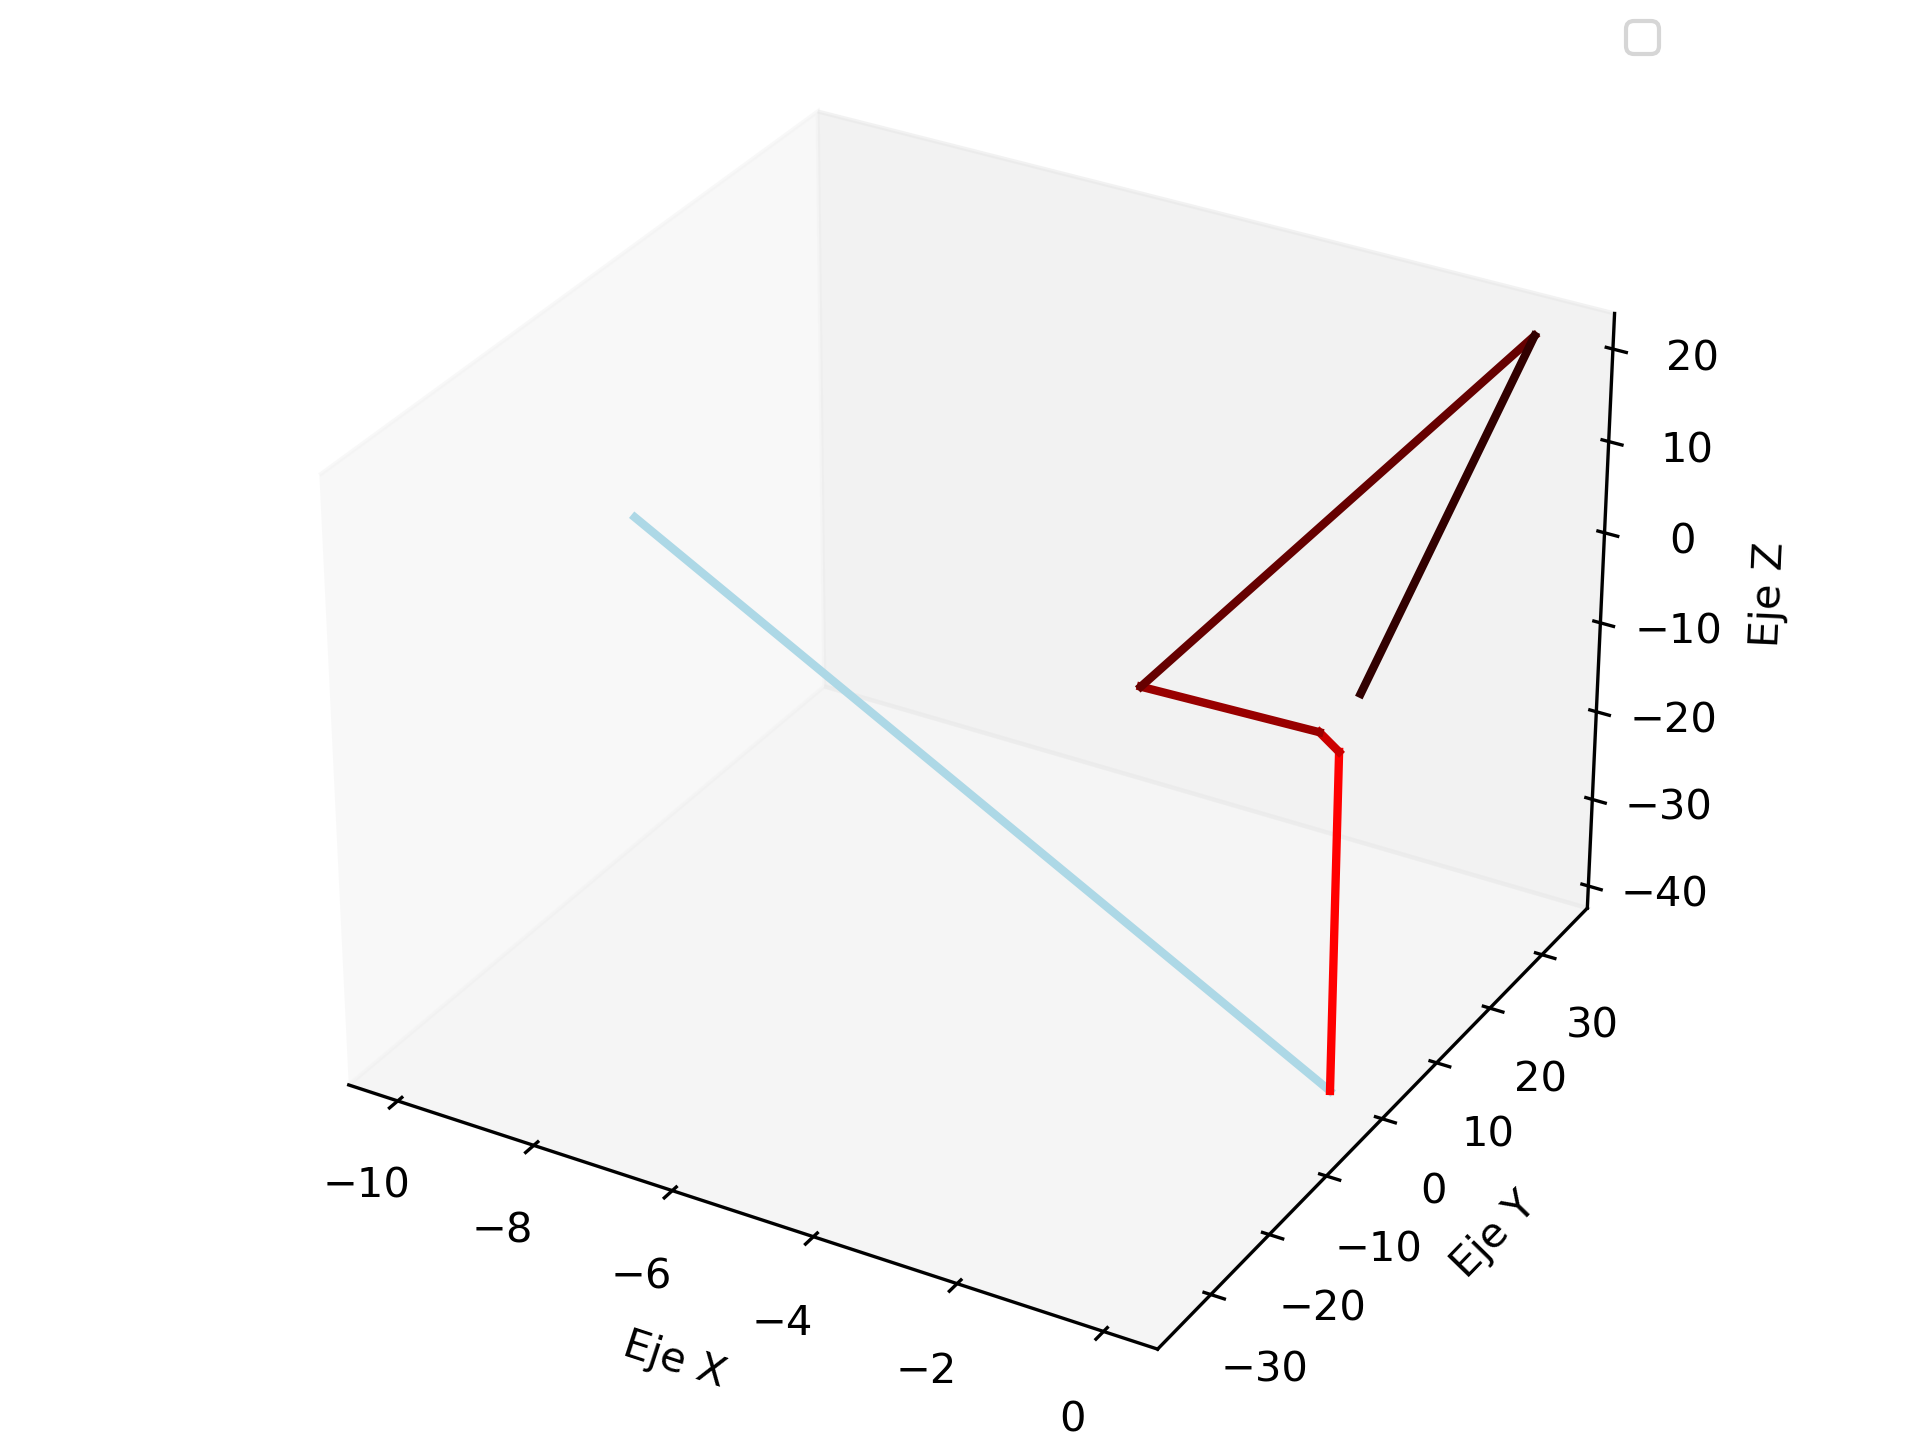
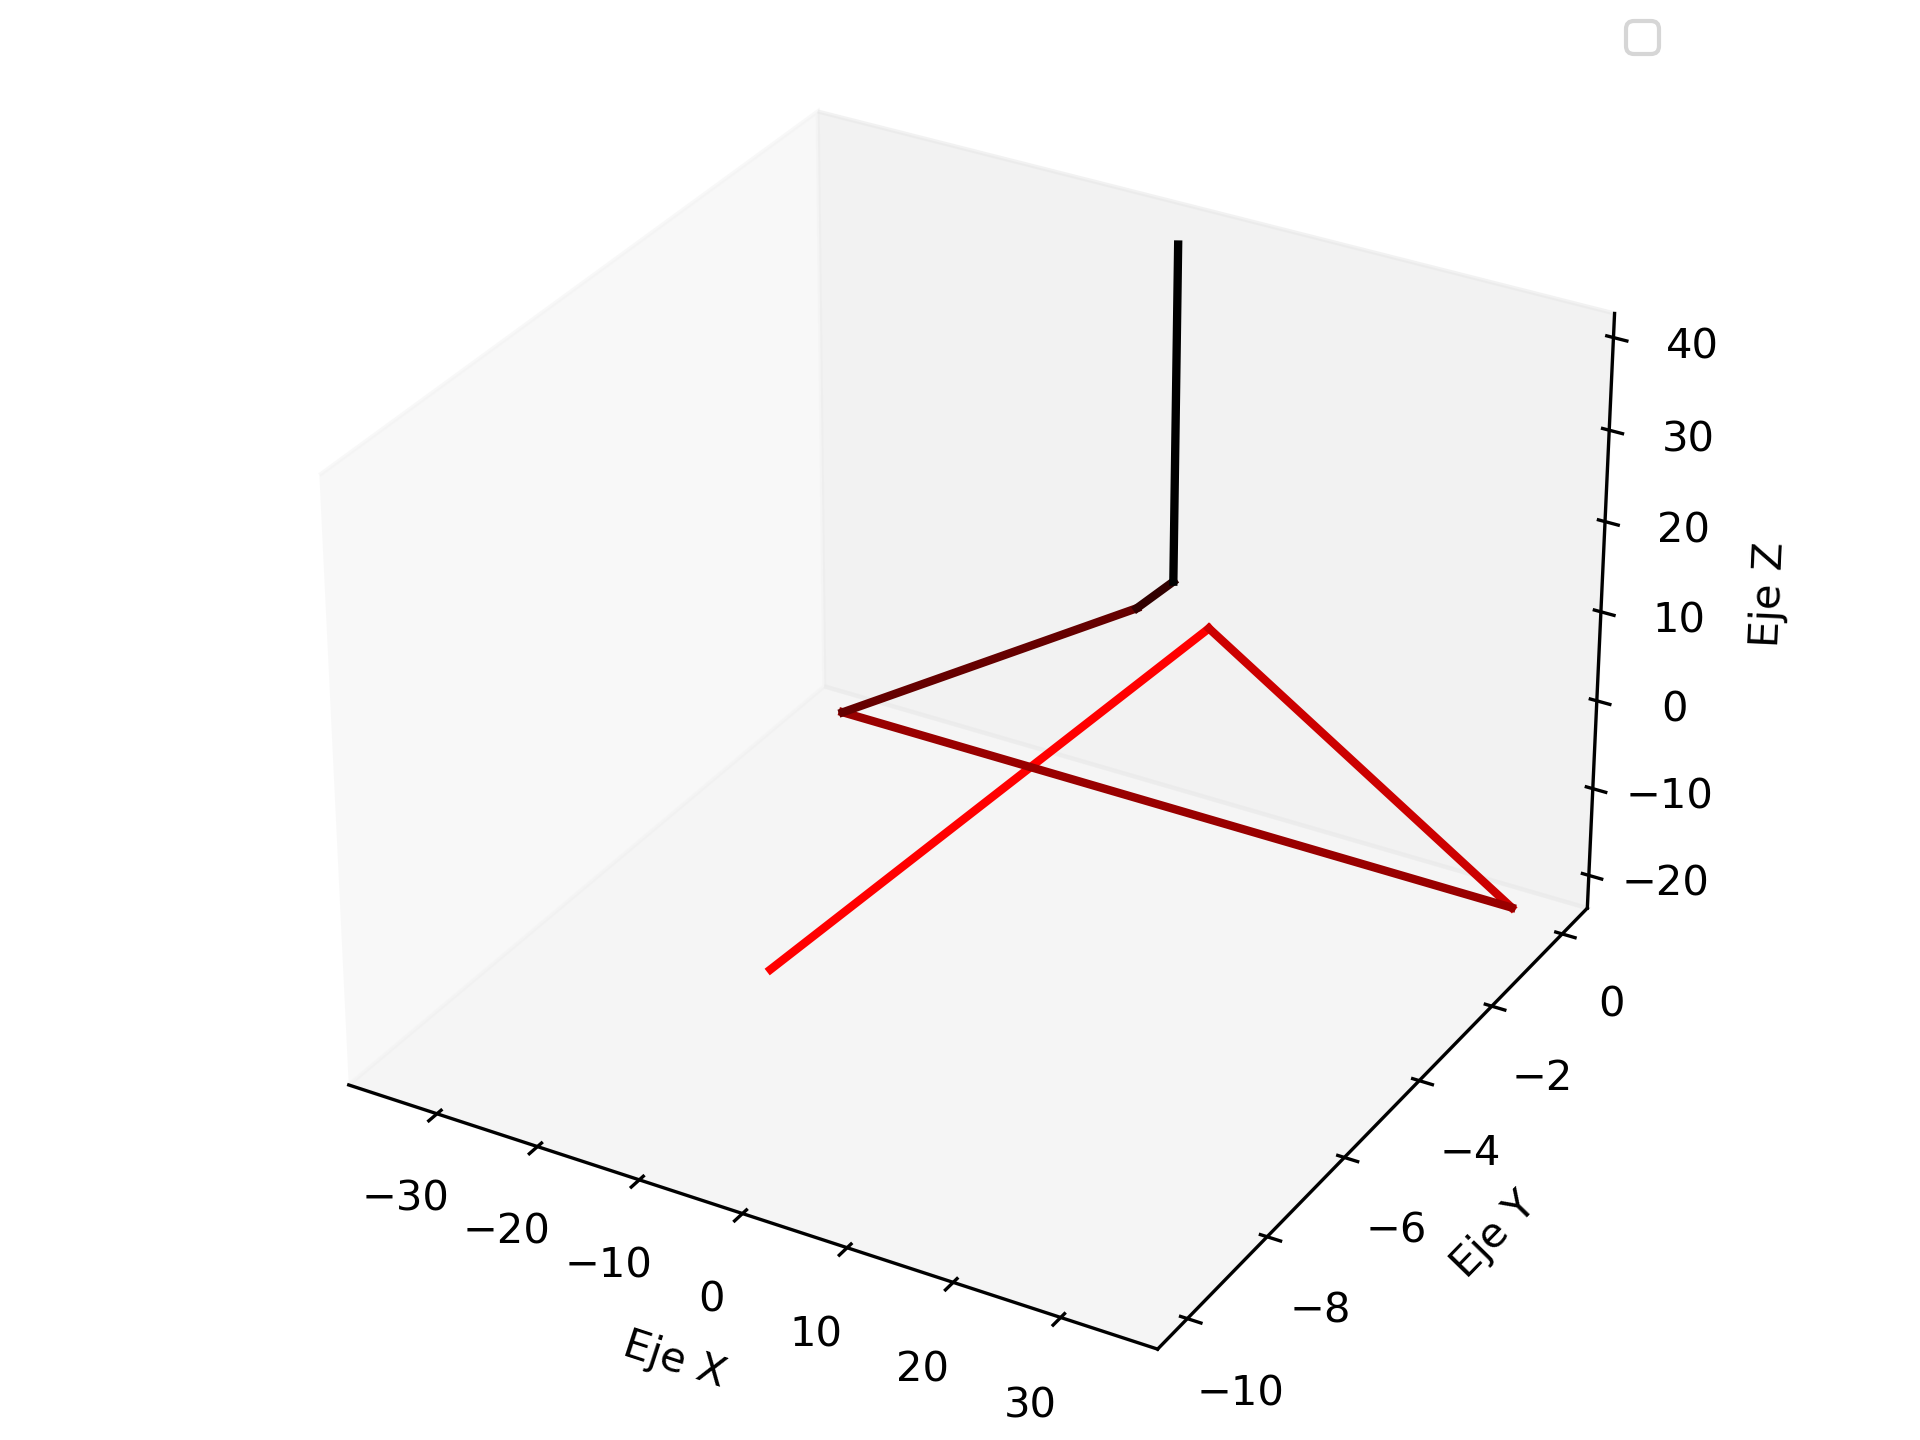
Mejoro algoritmo para el path, agrego posibilidad de end_point y agrego id de las palas a la respuesta

diff --git a/src/drone_control/drone_control/path_planner/shortest_path.py b/src/drone_control/drone_control/path_planner/shortest_path.py
@@ -5,7 +5,7 @@ from matplotlib import pyplot as plt
 from mpl_toolkits.mplot3d import Axes3D
 from typing import List
 
-from drone_control.path_planner.objects.mesh_base import Wireframe
+from objects.mesh_base import Wireframe
 from k_means_constrained import KMeansConstrained
 
 cache = {}
@@ -45,42 +45,42 @@ def dist(p_to, p_from=np.array([0, 0, 0])):
     v = p_to - p_from
     return np.linalg.norm(v)
 
-def shortest_path_from_stl(start_node, safe_distance, stl_name):
+def shortest_path_from_stl(start_node, end_node, safe_distance, stl_name):
     wt = Wireframe.from_stl_path(stl_name + '.stl')
     gps = grouping(wt)
     sections = []
     for g in gps:
         sections.append(Section(g, safe_distance))
-    return shortest_path(np.array(start_node), sections)
+    return shortest_path(start_node, sections, end_node)
 
-def shortest_path(start_node, sections: List[Section]):
-    points = []
+def shortest_path(start_node, sections: List[Section], end_node):
+    points = [np.array(start_node)]
     points_to_sections = {}
+    points_to_sections[0] = None
     for s in sections:
         points.append(s.p1)
+        points_to_sections[len(points) - 1] = s
         points.append(s.p2)
-        points_to_sections[s.p1_str] = s
-        points_to_sections[s.p2_str] = s
+        points_to_sections[len(points) - 1] = s
+    if end_node is not None:
+        points.append(np.array(end_node)) 
+        points_to_sections[len(points) - 1] = None
+    
     edges = np.zeros((len(points), len(points)))
-    for i, p in enumerate(points):
-        for j in range(i + 1, len(points)):
-            p2 = points[j]
-            if points_to_sections[str(p)] == points_to_sections[str(p2)]:
-                d = 0
+    for i in range(len(points)):
+        for j in range(len(points)):
+            if j == 0 or (points_to_sections[i] == points_to_sections[j]):
+                edges[i, j] = 0
+            elif i == len(points) - 1 and end_node is not None:
+                edges[i, j] = 1000000       # infinito
             else:
-                d = dist(p, p2)
-            edges[i, j] = d
-            edges[j, i] = d
-    start_distances = np.array([dist(start_node, points[i]) for i in range(len(points))])
-    edges = np.vstack([start_distances, edges])
-    edges = np.hstack([np.hstack((0, start_distances)).reshape(-1, 1), edges])
-    best_order, best_dist = solve_tsp(start_node, points, edges)
+                edges[i, j] = dist(points[i], points[j])
+    print(edges)
+    best_order, best_dist = solve_tsp(edges)
     print(f"Best: order={str(best_order)}, dist={best_dist}")
-    return np.array(points)[best_order]
+    return np.array([(id(points_to_sections[index]), value) for index, value in enumerate(points)], dtype=object)[best_order]
 
-def solve_tsp(start_node, points, edges):
-    modifiedPoints = points.copy()
-    modifiedPoints.insert(0, start_node)
+def solve_tsp(edges):
     edges = np.round(edges * 100).astype(int)    
 
     manager = pywrapcp.RoutingIndexManager(len(edges), 1, 0)
@@ -108,12 +108,9 @@ def solve_tsp(start_node, points, edges):
             previous_index = index
             index = solution.Value(routing.NextVar(index))
             route_distance += routing.GetArcCostForVehicle(previous_index, index, 0)
-        route.append(manager.IndexToNode(index))
         
         route = np.array(route)
-        route_non_zero = route[route != 0]
-        route_adjusted = route_non_zero - 1
-        return route_adjusted, route_distance / 100
+        return route, route_distance / 100
     else:
         return None, None
 
@@ -140,10 +137,8 @@ def grouping(obj):
     debug = 0
     return result
 
-def plot_best_order(start_node, points):
+def plot_best_order(points):
     resulting_points = []
-    if start_node is not None:
-        resulting_points.append(([start_node], (173/255, 216/255, 230/255)))
     for i, point in enumerate(points):
         resulting_points.append(([point], get_color_test(i)))
     plot_data_color_connected(resulting_points, "order", dpi=300)
@@ -188,9 +183,10 @@ def plot_data_color_connected(data, title, save=False, show=True, dpi=600):
     return ax
 
 def plot_points(points):
+    points_array = np.array(points)
     fig = plt.figure()
     ax = fig.add_subplot(111, projection='3d')
-    ax.scatter(points[:, 0], points[:, 1], points[:, 2], c='r', marker='o')
+    ax.scatter(points_array[:, 0], points_array[:, 1], points_array[:, 2], c='r', marker='o')
     ax.set_xlabel('Eje X')
     ax.set_ylabel('Eje Y')
     ax.set_zlabel('Eje Z')

diff --git a/src/drone_control/drone_control/path_planner/path_planner.py b/src/drone_control/drone_control/path_planner/path_planner.py
@@ -1,21 +1,22 @@
-from drone_control.path_planner.stl_gen.create_stl import WindTurbine, create_stl
-from drone_control.path_planner.shortest_path import shortest_path_from_stl, plot_best_order, plot_points
+from stl_gen.create_stl import WindTurbine, create_stl
+from shortest_path import shortest_path_from_stl, plot_best_order, plot_points
 
-def path_planner(windTurbine: WindTurbine=WindTurbine(6, 39, "stl_gen/turbine"), start_position=[-10, 0, 0], safe_distance=0):
+def path_planner(windTurbine:WindTurbine=WindTurbine(6, 39, "stl_gen/turbine"), start_position=[-10, 0, 0], end_position=None, safe_distance=0):
     create_stl(windTurbine)
-    traj = shortest_path_from_stl(point_from_machine(start_position), safe_distance, windTurbine.stl_path)
-    traj = points_to_machine(traj)
-    plot_best_order(start_position, traj)
-    #plot_points(traj)
-    print(traj)
-    return traj
+    traj = shortest_path_from_stl(point_from_machine(start_position), point_from_machine(end_position), safe_distance, windTurbine.stl_path)
+    points_only = [item[1] for item in traj]
+    plot_best_order(points_only)
+    plot_points(points_only)
+    return result_to_machine(traj)
 
 def point_from_machine(point):
+    if point is None:
+        return None
     x, y, z = point
     return [y, x, -z]
 
-def points_to_machine(points):
-    return [(y, x, -z) for x, y, z in points]
+def result_to_machine(points):
+    return [(i, (y, x, -z)) for i, (x, y, z) in points]
 
 if __name__ == '__main__':
     path_planner()

diff --git a/src/drone_control/drone_control/path_planner/objects/mesh_base.py b/src/drone_control/drone_control/path_planner/objects/mesh_base.py
@@ -1,6 +1,7 @@
 from abc import ABC
 import numpy as np
 from stl import mesh
+
 class MeshBase(ABC):
     def __init__(self, vertices, color):
         self.vertices = vertices
